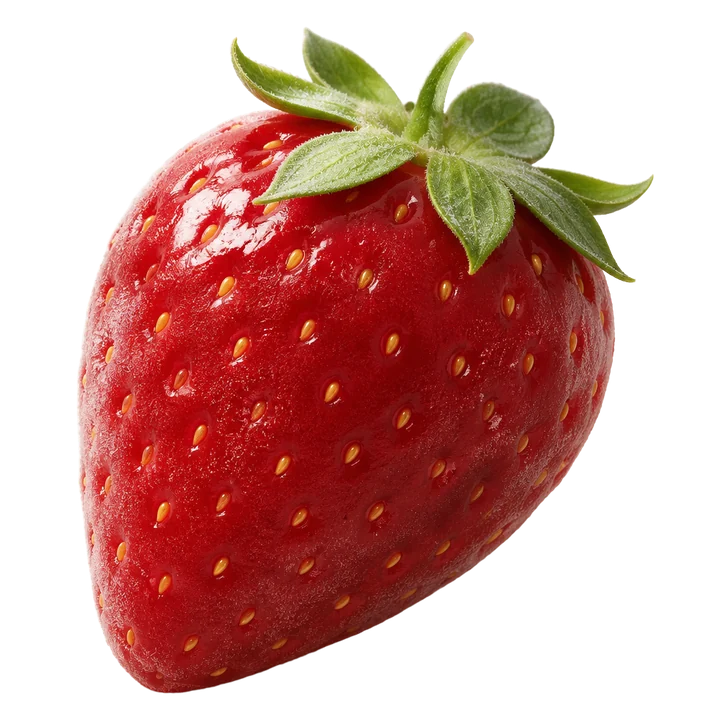
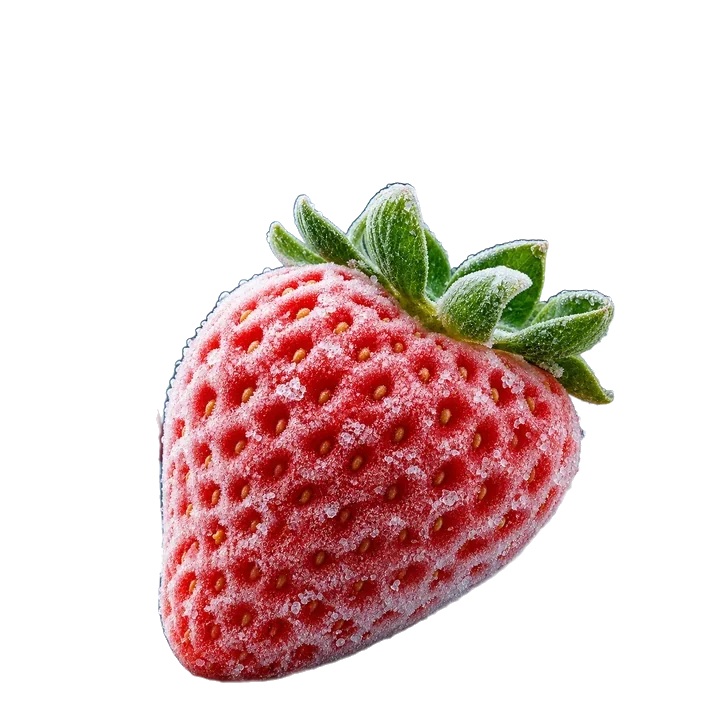
BOL° La Glacerie: Hagit's frozen fruits replace the generated ones
Myrtille, mangue, framboise and fraise, whole and cut open with the yogurt
running out; backgrounds removed so they sit on the white page, the mango's
dark wet-surface puddle and stray specks cleaned off, each whole/cut pair
cropped to the same frame so the cut lands in place. Peach and lemon leave.

Claude-Session: https://claude.ai/code/session_01Uv8Gej4cymrw6mvbdEPKSp

diff --git a/bol/index.html b/bol/index.html
@@ -632,7 +632,7 @@ footer a{color:inherit}
         <p class="tag">La Glacerie</p>
         <h2>מבחוץ פרי.<br><b>מבפנים BOL°.</b></h2>
       </div>
-      <p>קינוחי יוגורט קפוא בצורת פרי. מבחוץ ציפוי של פרי אמיתי, מבפנים יוגורט לבן ולב של קומפוט. נגיעה בפרי מראה מה יש בפנים.</p>
+      <p>קינוחי יוגורט קפוא בצורת פרי ענק. מבחוץ קליפה קפואה של פרי, מבפנים יוגורט לבן וריבה שנמסים החוצה בביס הראשון. נגיעה בפרי מראה מה יש בפנים.</p>
     </div>
     <div class="fruits" id="fruits"></div>
   </div>
@@ -942,10 +942,10 @@ const still = window.matchMedia('(prefers-reduced-motion: reduce)').matches;
 /* ============ LA GLACERIE — tap to cut ============ */
 (function(){
   const G=[
-    {id:'mangue', fr:'La Mangue', he:'ציפוי מנגו, יוגורט לבן קפוא ולב של קומפוט מנגו.', p:22},
-    {id:'fraise', fr:'La Fraise', he:'ציפוי תות, קוליס תות ולב של קומפוט תותים.', p:22},
-    {id:'peche',  fr:'La Pêche',  he:'ציפוי אפרסק קטיפתי, יוגורט לבן ולב של אפרסק.', p:22},
-    {id:'citron', fr:'Le Citron', he:'ציפוי לימון, יוגורט לבן קפוא ולב של קרם לימון.', p:20}
+    {id:'myrtille',  fr:'La Myrtille',  he:'קליפת אוכמניות קפואה, ובפנים יוגורט לבן עם ריבת אוכמניות.', p:24},
+    {id:'mangue',    fr:'La Mangue',    he:'קליפת מנגו קפואה, ובפנים יוגורט לבן וקוביות מנגו.', p:24},
+    {id:'framboise', fr:'La Framboise', he:'פטל ענק קפוא, ובפנים יוגורט לבן עם ריבת פטל.', p:24},
+    {id:'fraise',    fr:'La Fraise',    he:'תות ענק קפוא, ובפנים יוגורט לבן וקוביות תות.', p:24}
   ];
   const wrap=document.getElementById('fruits'); if(!wrap) return;
   G.forEach(g=>{
